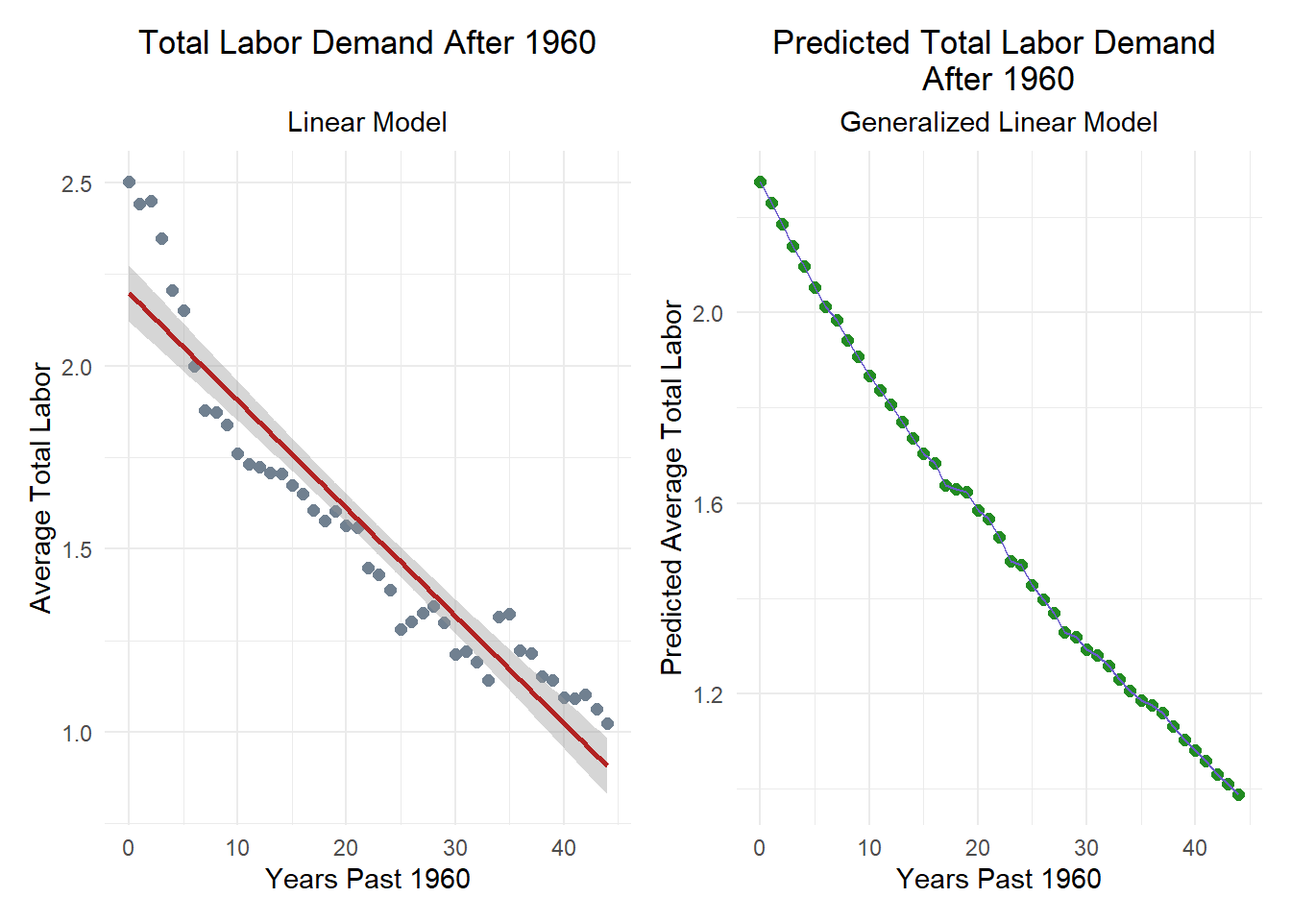
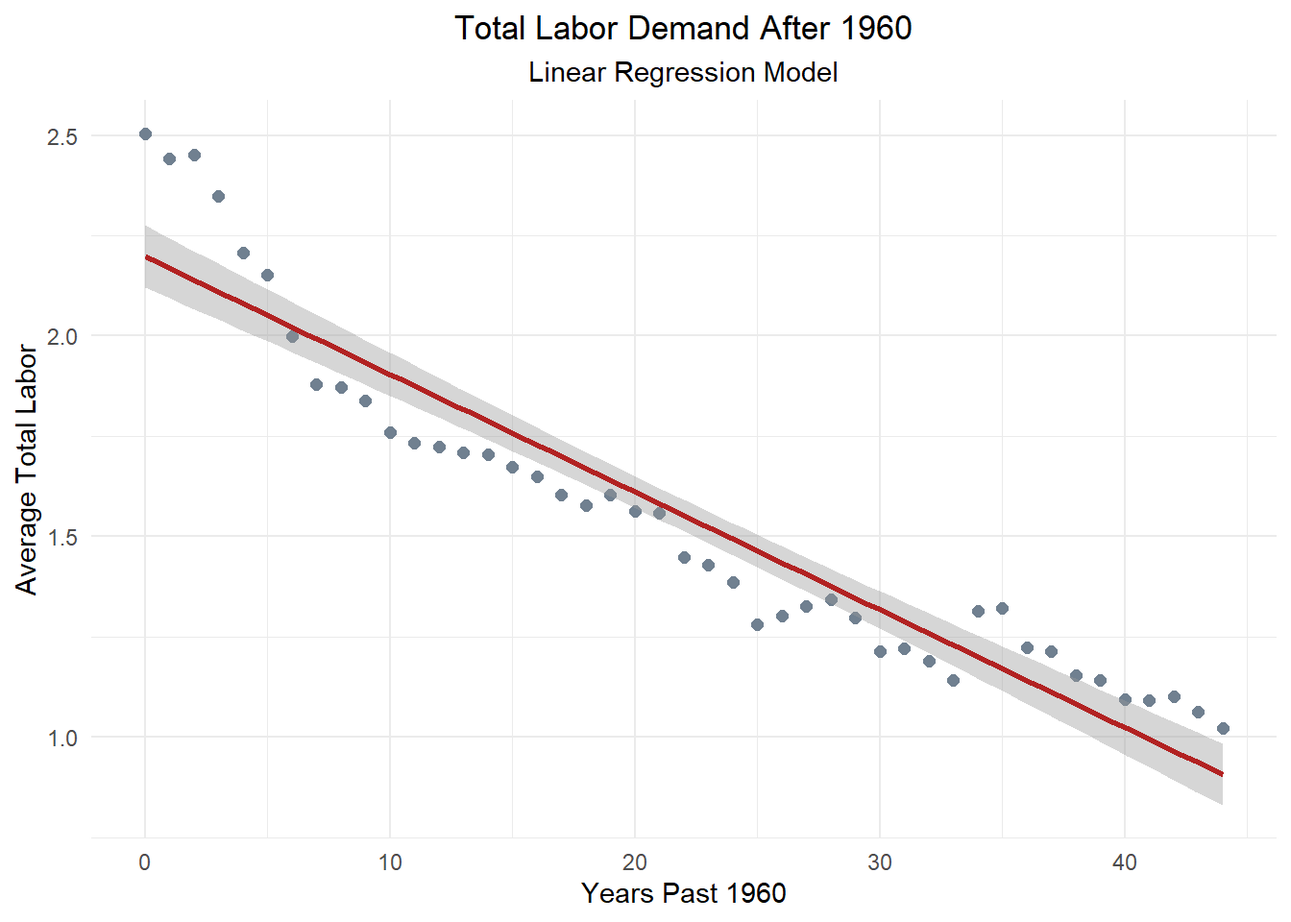
Edit analysis and update figure labels

diff --git a/docs/blog_posts/stats-project/pesticides-fertilizers-labor.html b/docs/blog_posts/stats-project/pesticides-fertilizers-labor.html
@@ -10,7 +10,7 @@
 <meta name="dcterms.date" content="2024-12-14">
 <meta name="description" content="How the rapid rise in synthetic inputs during the 20th century affected labor needs on farms.">
 
-<title>Examing the Impact of Fertilizer &amp; Pesticide Use on Agricultural Labor Needs – Stephen Carroll</title>
+<title>Examing the Impact of Fertilizer &amp; Pesticide Use on Agricultural Labor Demands – Stephen Carroll</title>
 <style>
 code{white-space: pre-wrap;}
 span.smallcaps{font-variant: small-caps;}
@@ -190,7 +190,7 @@ window.Quarto = {
 <header id="title-block-header" class="quarto-title-block default page-columns page-full">
   <div class="quarto-title-banner page-columns page-full">
     <div class="quarto-title column-page-left">
-      <h1 class="title">Examing the Impact of Fertilizer &amp; Pesticide Use on Agricultural Labor Needs</h1>
+      <h1 class="title">Examing the Impact of Fertilizer &amp; Pesticide Use on Agricultural Labor Demands</h1>
                   <div>
         <div class="description">
           How the rapid rise in synthetic inputs during the 20th century affected labor needs on farms.
@@ -248,7 +248,7 @@ window.Quarto = {
   <li><a href="#analysis-plan" id="toc-analysis-plan" class="nav-link" data-scroll-target="#analysis-plan">Analysis Plan</a>
   <ul class="collapse">
   <li><a href="#multiple-linear-regression" id="toc-multiple-linear-regression" class="nav-link" data-scroll-target="#multiple-linear-regression">Multiple Linear Regression</a></li>
-  <li><a href="#logistic-regression" id="toc-logistic-regression" class="nav-link" data-scroll-target="#logistic-regression">Logistic Regression</a></li>
+  <li><a href="#gamma-regression" id="toc-gamma-regression" class="nav-link" data-scroll-target="#gamma-regression">Gamma Regression</a></li>
   <li><a href="#hypothesis-statement" id="toc-hypothesis-statement" class="nav-link" data-scroll-target="#hypothesis-statement">Hypothesis Statement</a></li>
   </ul></li>
   <li><a href="#data" id="toc-data" class="nav-link" data-scroll-target="#data">Data</a></li>
@@ -264,9 +264,9 @@ window.Quarto = {
   <ul class="collapse">
   <li><a href="#linear-model-evaluation" id="toc-linear-model-evaluation" class="nav-link" data-scroll-target="#linear-model-evaluation">Linear Model Evaluation</a></li>
   </ul></li>
-  <li><a href="#logistic-regression-analysis" id="toc-logistic-regression-analysis" class="nav-link" data-scroll-target="#logistic-regression-analysis">Logistic Regression Analysis</a>
+  <li><a href="#gamma-regression-analysis" id="toc-gamma-regression-analysis" class="nav-link" data-scroll-target="#gamma-regression-analysis">Gamma Regression Analysis</a>
   <ul class="collapse">
-  <li><a href="#logistic-model-evaluation" id="toc-logistic-model-evaluation" class="nav-link" data-scroll-target="#logistic-model-evaluation">Logistic Model Evaluation</a></li>
+  <li><a href="#gamma-model-evaluation" id="toc-gamma-model-evaluation" class="nav-link" data-scroll-target="#gamma-model-evaluation">Gamma Model Evaluation</a></li>
   <li><a href="#visualizing-both-linear-and-non-linear-models" id="toc-visualizing-both-linear-and-non-linear-models" class="nav-link" data-scroll-target="#visualizing-both-linear-and-non-linear-models">Visualizing Both Linear and Non-Linear Models</a></li>
   </ul></li>
   <li><a href="#results" id="toc-results" class="nav-link" data-scroll-target="#results">Results</a>
@@ -323,9 +323,9 @@ window.Quarto = {
 <p>The response variable is ‘total_labor’, and represents all forms of labor demand in commercial agriculture operations in the country. The <span class="math inline">\(\beta\)</span>s represent the regression coefficients, each representing a predictor variable, all of which are continuous. This assumes that there is a linear relationship between ‘total_labor’ and each independent predictor variable.</p>
 <p>This model will enable me to assess the extent to which changes in these factors predict the demand in labor. By examining these patterns over time we can attempt to draw conclusions about how the increasing reliance on synthetic chemicals has influenced labor dynamics in agriculture, potentially providing valuable insight into the economic impacts of different farming practices.</p>
 </section>
-<section id="logistic-regression" class="level3">
-<h3 class="anchored" data-anchor-id="logistic-regression">Logistic Regression</h3>
-<p>Though I don’t believe my variables to be categorical, if linear regression does not yield convincing results, I will turn to logistic analysis. Having a secondary method of analysis may prove valuable if my predictor variables are insufficient to draw conclusions. Trying both models allows me to compare their performance and ensure I’m using the most appropriate approach for my analysis. Herre is an example of a model that I might use:</p>
+<section id="gamma-regression" class="level3">
+<h3 class="anchored" data-anchor-id="gamma-regression">Gamma Regression</h3>
+<p>Though I don’t believe my variables to be categorical, if linear regression does not yield convincing results, I will turn to gamma analysis. Having a secondary method of analysis may prove valuable if my predictor variables are insufficient to draw conclusions. Trying both models allows me to compare their performance and ensure I’m using the most appropriate approach for my analysis. Herre is an example of a model that I might use:</p>
 <p><span class="math display">\[\log(\mathbb{E}[\text{labor}]) = \beta_0 + \beta_1 \cdot \text{pesticide} + \beta_2 \cdot \text{year} + \beta_3 \cdot (\text{pesticide} \times \text{year})\]</span></p>
 </section>
 <section id="hypothesis-statement" class="level3">
@@ -976,9 +976,9 @@ window.Quarto = {
 </section>
 </section>
 </section>
-<section id="logistic-regression-analysis" class="level2">
-<h2 class="anchored" data-anchor-id="logistic-regression-analysis">Logistic Regression Analysis</h2>
-<p>We know that both labor parameters are collinear as well as pesticide &amp; fertilizer. Because it’s a redundant predictor, Let’s drop fertilizer and just focus on pesticide use for this next model. We’ve also learned that the data isn’t normal. To try and normalize the distribution of residuals, we need to transform our data. Though we know the increase in use of pesticides and fertilizers isn’t going to be exponential, the initial plot for their growth trend did somewhat reflect an exponential curve. Let’s try using a Generalized Linear Model (GLM), with a log link function to get a better model fit.</p>
+<section id="gamma-regression-analysis" class="level2">
+<h2 class="anchored" data-anchor-id="gamma-regression-analysis">Gamma Regression Analysis</h2>
+<p>We know that both labor parameters are collinear as well as pesticide &amp; fertilizer. Because it’s a redundant predictor, Let’s drop fertilizer and just focus on pesticide use for this next model. We’ve also learned that the data isn’t normal. To try and normalize the distribution of residuals, we need to transform our data. Though we know the increase in use of pesticides and fertilizers isn’t going to be exponential, the initial plot for their growth trend did somewhat reflect an exponential curve. Let’s try using a Generalized Linear Model (GLM), with a log link function to get a better model fit with a Gamma Regression.</p>
 <div style="max-width: 600px; margin: 0 auto; margin-right: 20px; font-size: 14px;">
 <p><span class="math inline">\(\log(\mathbb{E}[\text{avg\_total\_labor}]) = \beta_0 + \beta_1 \cdot \text{avg\_pesticide} + \beta_2 \cdot \text{years\_elapsed} + \beta_3 \cdot (\text{avg\_pesticide} \times \text{years\_elapsed})\)</span></p>
 </div>
@@ -1011,14 +1011,14 @@ window.Quarto = {
 <span id="cb24-7"><a href="#cb24-7" aria-hidden="true" tabindex="-1"></a><span class="co"># Populate the data frame with the variable names and their corresponding values</span></span>
 <span id="cb24-8"><a href="#cb24-8" aria-hidden="true" tabindex="-1"></a><span class="fu">colnames</span>(labor_glm_df) <span class="ot">&lt;-</span> <span class="fu">c</span>(<span class="st">"Estimate"</span>, <span class="st">"Std. Error"</span>, <span class="st">"t value"</span>, <span class="st">"p-value"</span>)</span>
 <span id="cb24-9"><a href="#cb24-9" aria-hidden="true" tabindex="-1"></a>labor_glm_df<span class="sc">$</span>Variable <span class="ot">&lt;-</span> <span class="fu">rownames</span>(labor_glm_df)</span>
-<span id="cb24-10"><a href="#cb24-10" aria-hidden="true" tabindex="-1"></a>labor_glm_df<span class="sc">$</span>Model <span class="ot">&lt;-</span> <span class="st">"GLM Labor"</span></span>
+<span id="cb24-10"><a href="#cb24-10" aria-hidden="true" tabindex="-1"></a>labor_glm_df<span class="sc">$</span>Model <span class="ot">&lt;-</span> <span class="st">"Gamma Labor"</span></span>
 <span id="cb24-11"><a href="#cb24-11" aria-hidden="true" tabindex="-1"></a></span>
 <span id="cb24-12"><a href="#cb24-12" aria-hidden="true" tabindex="-1"></a><span class="co"># Remove row names (index) by resetting the row names to NULL</span></span>
 <span id="cb24-13"><a href="#cb24-13" aria-hidden="true" tabindex="-1"></a><span class="fu">rownames</span>(labor_glm_df) <span class="ot">&lt;-</span> <span class="cn">NULL</span></span>
 <span id="cb24-14"><a href="#cb24-14" aria-hidden="true" tabindex="-1"></a></span>
 <span id="cb24-15"><a href="#cb24-15" aria-hidden="true" tabindex="-1"></a>labor_glm_table <span class="ot">&lt;-</span> <span class="fu">kable</span>(labor_glm_df[, <span class="fu">c</span>(<span class="st">"Variable"</span>, <span class="st">"Estimate"</span>, <span class="st">"Std. Error"</span>, <span class="st">"t value"</span>, <span class="st">"p-value"</span>)],</span>
 <span id="cb24-16"><a href="#cb24-16" aria-hidden="true" tabindex="-1"></a>                            <span class="at">digits =</span> <span class="dv">3</span>,</span>
-<span id="cb24-17"><a href="#cb24-17" aria-hidden="true" tabindex="-1"></a>                            <span class="at">caption =</span> <span class="st">"Regression Coefficients for Labor Generalized Linear Model"</span>) <span class="sc">%&gt;%</span> </span>
+<span id="cb24-17"><a href="#cb24-17" aria-hidden="true" tabindex="-1"></a>                            <span class="at">caption =</span> <span class="st">"Regression Coefficients for Labor Gamma Regression Model"</span>) <span class="sc">%&gt;%</span> </span>
 <span id="cb24-18"><a href="#cb24-18" aria-hidden="true" tabindex="-1"></a> <span class="fu">kable_styling</span>(<span class="at">bootstrap_options =</span> <span class="st">"striped"</span>, <span class="at">full_width =</span> <span class="cn">FALSE</span>, <span class="at">position =</span> <span class="st">"center"</span>) <span class="sc">%&gt;%</span></span>
 <span id="cb24-19"><a href="#cb24-19" aria-hidden="true" tabindex="-1"></a>  <span class="fu">column_spec</span>(<span class="dv">1</span><span class="sc">:</span><span class="dv">5</span>, <span class="at">background =</span> <span class="st">"white"</span>)</span>
 <span id="cb24-20"><a href="#cb24-20" aria-hidden="true" tabindex="-1"></a></span>
@@ -1026,7 +1026,7 @@ window.Quarto = {
 </details>
 <div class="cell-output-display">
 <table class="table table-striped caption-top table-sm small" data-quarto-postprocess="true">
-<caption>Regression Coefficients for Labor Generalized Linear Model</caption>
+<caption>Regression Coefficients for Labor Gamma Regression Model</caption>
 <thead>
 <tr class="header">
 <th style="text-align: left;" data-quarto-table-cell-role="th">Variable</th>
@@ -1065,21 +1065,21 @@ window.Quarto = {
 </div>
 </div>
 <p>Progress! It looks like our p-value for ‘avg_pesticide’ is roughly half of what our last model produced. This is a meaningless improvement however, as the new value is still statistically insignificant at <span class="math inline">\(\alpha\)</span> &lt; 0.05 with a value of 0.34. Let’s check to see if this new method produced data that is normal and homoscedastic, using the same methods from before.</p>
-<section id="logistic-model-evaluation" class="level3">
-<h3 class="anchored" data-anchor-id="logistic-model-evaluation">Logistic Model Evaluation</h3>
+<section id="gamma-model-evaluation" class="level3">
+<h3 class="anchored" data-anchor-id="gamma-model-evaluation">Gamma Model Evaluation</h3>
 <div class="cell">
 <details class="code-fold">
 <summary>Code</summary>
-<div class="sourceCode cell-code" id="cb25"><pre class="sourceCode r code-with-copy"><code class="sourceCode r"><span id="cb25-1"><a href="#cb25-1" aria-hidden="true" tabindex="-1"></a><span class="co"># Generate predictions and residuals for avg_total_labor using the glm model</span></span>
+<div class="sourceCode cell-code" id="cb25"><pre class="sourceCode r code-with-copy"><code class="sourceCode r"><span id="cb25-1"><a href="#cb25-1" aria-hidden="true" tabindex="-1"></a><span class="co"># Generate predictions and residuals for avg_total_labor using the gamma model</span></span>
 <span id="cb25-2"><a href="#cb25-2" aria-hidden="true" tabindex="-1"></a>combined_glm <span class="ot">&lt;-</span> combined_tidy <span class="sc">%&gt;%</span></span>
 <span id="cb25-3"><a href="#cb25-3" aria-hidden="true" tabindex="-1"></a>  <span class="fu">mutate</span>(<span class="at">predicted_labor =</span> <span class="fu">predict</span>(labor_glm, <span class="at">type =</span> <span class="st">"response"</span>)) <span class="sc">%&gt;%</span> </span>
 <span id="cb25-4"><a href="#cb25-4" aria-hidden="true" tabindex="-1"></a>  <span class="fu">mutate</span>(<span class="at">residuals_glm =</span> <span class="fu">residuals.glm</span>(labor_glm))</span>
 <span id="cb25-5"><a href="#cb25-5" aria-hidden="true" tabindex="-1"></a></span>
 <span id="cb25-6"><a href="#cb25-6" aria-hidden="true" tabindex="-1"></a></span>
-<span id="cb25-7"><a href="#cb25-7" aria-hidden="true" tabindex="-1"></a><span class="co"># Plot a histogram of glm residuals to check normality</span></span>
+<span id="cb25-7"><a href="#cb25-7" aria-hidden="true" tabindex="-1"></a><span class="co"># Plot a histogram of gamma residuals to check normality</span></span>
 <span id="cb25-8"><a href="#cb25-8" aria-hidden="true" tabindex="-1"></a>glm_hist_plot <span class="ot">&lt;-</span> <span class="fu">ggplot</span>(combined_glm, <span class="fu">aes</span>(<span class="at">x =</span> residuals_glm)) <span class="sc">+</span></span>
 <span id="cb25-9"><a href="#cb25-9" aria-hidden="true" tabindex="-1"></a>  <span class="fu">geom_histogram</span>(<span class="at">bins =</span> <span class="dv">30</span>, <span class="at">fill =</span> <span class="st">"lavender"</span>, <span class="at">color =</span> <span class="st">"black"</span>, <span class="at">alpha =</span> <span class="fl">0.5</span>) <span class="sc">+</span></span>
-<span id="cb25-10"><a href="#cb25-10" aria-hidden="true" tabindex="-1"></a>  <span class="fu">labs</span>(<span class="at">title =</span> <span class="st">"Histogram of GLM Residuals"</span>, <span class="at">x =</span> <span class="st">"Residuals"</span>, <span class="at">y =</span> <span class="st">"Frequency"</span>) <span class="sc">+</span></span>
+<span id="cb25-10"><a href="#cb25-10" aria-hidden="true" tabindex="-1"></a>  <span class="fu">labs</span>(<span class="at">title =</span> <span class="st">"Histogram of Gamma Regression Residuals"</span>, <span class="at">x =</span> <span class="st">"Residuals"</span>, <span class="at">y =</span> <span class="st">"Frequency"</span>) <span class="sc">+</span></span>
 <span id="cb25-11"><a href="#cb25-11" aria-hidden="true" tabindex="-1"></a>  <span class="fu">theme_minimal</span>()  <span class="sc">+</span></span>
 <span id="cb25-12"><a href="#cb25-12" aria-hidden="true" tabindex="-1"></a>  <span class="fu">theme</span>(<span class="at">plot.title =</span> <span class="fu">element_text</span>(<span class="at">hjust =</span> <span class="fl">0.5</span>))  <span class="co"># Center the title</span></span>
 <span id="cb25-13"><a href="#cb25-13" aria-hidden="true" tabindex="-1"></a></span>
@@ -1088,7 +1088,7 @@ window.Quarto = {
 <span id="cb25-16"><a href="#cb25-16" aria-hidden="true" tabindex="-1"></a>glm_qq_plot <span class="ot">&lt;-</span> <span class="fu">ggplot</span>(combined_glm, <span class="fu">aes</span>(<span class="at">sample =</span> predicted_labor)) <span class="sc">+</span></span>
 <span id="cb25-17"><a href="#cb25-17" aria-hidden="true" tabindex="-1"></a>  <span class="fu">stat_qq</span>() <span class="sc">+</span></span>
 <span id="cb25-18"><a href="#cb25-18" aria-hidden="true" tabindex="-1"></a>  <span class="fu">stat_qq_line</span>(<span class="at">color =</span> <span class="st">"firebrick"</span>, <span class="at">alpha =</span> <span class="fl">0.5</span>) <span class="sc">+</span></span>
-<span id="cb25-19"><a href="#cb25-19" aria-hidden="true" tabindex="-1"></a>  <span class="fu">labs</span>(<span class="at">title =</span> <span class="st">"Q-Q Plot of GLM Residuals"</span>) <span class="sc">+</span></span>
+<span id="cb25-19"><a href="#cb25-19" aria-hidden="true" tabindex="-1"></a>  <span class="fu">labs</span>(<span class="at">title =</span> <span class="st">"Q-Q Plot of Gamma Regression Residuals"</span>) <span class="sc">+</span></span>
 <span id="cb25-20"><a href="#cb25-20" aria-hidden="true" tabindex="-1"></a>  <span class="fu">theme_minimal</span>()  <span class="sc">+</span></span>
 <span id="cb25-21"><a href="#cb25-21" aria-hidden="true" tabindex="-1"></a>  <span class="fu">theme</span>(<span class="at">plot.title =</span> <span class="fu">element_text</span>(<span class="at">hjust =</span> <span class="fl">0.5</span>))  <span class="co"># Center the title</span></span>
 <span id="cb25-22"><a href="#cb25-22" aria-hidden="true" tabindex="-1"></a></span>
@@ -1097,7 +1097,7 @@ window.Quarto = {
 <span id="cb25-25"><a href="#cb25-25" aria-hidden="true" tabindex="-1"></a>glm_fitted_resdid_plot <span class="ot">&lt;-</span> <span class="fu">ggplot</span>(combined_glm, <span class="fu">aes</span>(<span class="at">x =</span> predicted_labor, <span class="at">y =</span> residuals_glm)) <span class="sc">+</span></span>
 <span id="cb25-26"><a href="#cb25-26" aria-hidden="true" tabindex="-1"></a>  <span class="fu">geom_point</span>() <span class="sc">+</span></span>
 <span id="cb25-27"><a href="#cb25-27" aria-hidden="true" tabindex="-1"></a>  <span class="fu">geom_hline</span>(<span class="at">yintercept =</span> <span class="dv">0</span>, <span class="at">color =</span> <span class="st">"tomato"</span>, <span class="at">linetype =</span> <span class="st">"dashed"</span>) <span class="sc">+</span></span>
-<span id="cb25-28"><a href="#cb25-28" aria-hidden="true" tabindex="-1"></a>  <span class="fu">labs</span>(<span class="at">x =</span> <span class="st">"Fitted Values"</span>, <span class="at">y =</span> <span class="st">"Residuals"</span>, <span class="at">title =</span> <span class="st">"GLM Residuals vs Fitted Values"</span>) <span class="sc">+</span></span>
+<span id="cb25-28"><a href="#cb25-28" aria-hidden="true" tabindex="-1"></a>  <span class="fu">labs</span>(<span class="at">x =</span> <span class="st">"Fitted Values"</span>, <span class="at">y =</span> <span class="st">"Residuals"</span>, <span class="at">title =</span> <span class="st">"Gamma Regression Residuals vs Fitted Values"</span>) <span class="sc">+</span></span>
 <span id="cb25-29"><a href="#cb25-29" aria-hidden="true" tabindex="-1"></a>  <span class="fu">theme_minimal</span>() <span class="sc">+</span></span>
 <span id="cb25-30"><a href="#cb25-30" aria-hidden="true" tabindex="-1"></a>  <span class="fu">theme</span>(<span class="at">plot.title =</span> <span class="fu">element_text</span>(<span class="at">hjust =</span> <span class="fl">0.5</span>))  <span class="co"># Center the title</span></span>
 <span id="cb25-31"><a href="#cb25-31" aria-hidden="true" tabindex="-1"></a></span>
@@ -1134,11 +1134,11 @@ window.Quarto = {
 </div>
 </div>
 </div>
-<p>After further investigation, it’s clear that this model didn’t produce normally distributed data either. Our histogram of GLM residuals is closer to a normal distribution, but it’s asymmetric with a right tail. Our Q-Q plot of GLM residuals is also a better fit, with at least half of the points landing on the line of normality. Still, the extreme high and low values deviate from the line. When we plotted the fitted GLM data versus the residual GLM data, the result is a funnel similar to the first graph. Though improved, this model did not produce normal or homoscedastic data and is therefore not worthwhile as a means to predict total labor cost from pesticide use and year alone.</p>
+<p>After further investigation, it’s clear that this model didn’t produce normally distributed data either. Our histogram of GLM residuals is closer to a normal distribution, but it’s asymmetric with a right tail. Our Q-Q plot of Gamma regression residuals is also a better fit, with at least half of the points landing on the line of normality. Still, the extreme high and low values deviate from the line. When we plotted the fitted Gamma data versus the residual Gamma data, the result is a funnel similar to the first graph. Though improved, this model did not produce normal or homoscedastic data and is therefore not worthwhile as a means to predict total labor cost from pesticide use and year alone.</p>
 </section>
 <section id="visualizing-both-linear-and-non-linear-models" class="level3">
 <h3 class="anchored" data-anchor-id="visualizing-both-linear-and-non-linear-models">Visualizing Both Linear and Non-Linear Models</h3>
-<p>Let’s compare each model by plotting our data and regression lines. Can we see a demontrable difference in outcome?</p>
+<p>Let’s compare each model by plotting our data and regression lines. Can we see a demonstrable difference in outcome?</p>
 <div class="cell">
 <details class="code-fold">
 <summary>Code</summary>
@@ -1146,28 +1146,39 @@ window.Quarto = {
 <span id="cb28-2"><a href="#cb28-2" aria-hidden="true" tabindex="-1"></a>total_labor_plot <span class="ot">&lt;-</span> <span class="fu">ggplot</span>(combined_glm, <span class="fu">aes</span>(<span class="at">x =</span> years_elapsed, <span class="at">y =</span> avg_total_labor)) <span class="sc">+</span></span>
 <span id="cb28-3"><a href="#cb28-3" aria-hidden="true" tabindex="-1"></a>  <span class="fu">geom_point</span>(<span class="at">color =</span> <span class="st">"slategray"</span>, <span class="at">size =</span> <span class="dv">2</span>) <span class="sc">+</span>  <span class="co"># Scatter plot for avg_total_labor</span></span>
 <span id="cb28-4"><a href="#cb28-4" aria-hidden="true" tabindex="-1"></a>  <span class="fu">geom_smooth</span>(<span class="at">method =</span> <span class="st">"lm"</span>, <span class="at">formula =</span> y <span class="sc">~</span> x, <span class="at">color =</span> <span class="st">"firebrick"</span>, <span class="at">linetype =</span> <span class="st">"solid"</span>) <span class="sc">+</span>  <span class="co"># Regression line for total_labor_model</span></span>
-<span id="cb28-5"><a href="#cb28-5" aria-hidden="true" tabindex="-1"></a>  <span class="fu">labs</span>(<span class="at">subtitle =</span> <span class="st">"Linear Model"</span>, <span class="at">title =</span> <span class="st">"Total Labor Demand After 1960"</span>, <span class="at">x =</span> <span class="st">"Years Past 1960"</span>, <span class="at">y =</span> <span class="st">"Average Total Labor"</span>) <span class="sc">+</span></span>
+<span id="cb28-5"><a href="#cb28-5" aria-hidden="true" tabindex="-1"></a>  <span class="fu">labs</span>(<span class="at">subtitle =</span> <span class="st">"Linear Regression Model"</span>, <span class="at">title =</span> <span class="st">"Total Labor Demand After 1960"</span>, <span class="at">x =</span> <span class="st">"Years Past 1960"</span>, <span class="at">y =</span> <span class="st">"Average Total Labor"</span>) <span class="sc">+</span></span>
 <span id="cb28-6"><a href="#cb28-6" aria-hidden="true" tabindex="-1"></a>  <span class="fu">theme_minimal</span>()  <span class="sc">+</span></span>
 <span id="cb28-7"><a href="#cb28-7" aria-hidden="true" tabindex="-1"></a>  <span class="fu">theme</span>(<span class="at">plot.title =</span> <span class="fu">element_text</span>(<span class="at">hjust =</span> <span class="fl">0.5</span>), <span class="co"># Center the title</span></span>
 <span id="cb28-8"><a href="#cb28-8" aria-hidden="true" tabindex="-1"></a>        <span class="at">plot.subtitle =</span> <span class="fu">element_text</span>(<span class="at">hjust =</span> <span class="fl">0.5</span>))  <span class="co"># Center the subtitle</span></span>
 <span id="cb28-9"><a href="#cb28-9" aria-hidden="true" tabindex="-1"></a></span>
 <span id="cb28-10"><a href="#cb28-10" aria-hidden="true" tabindex="-1"></a></span>
-<span id="cb28-11"><a href="#cb28-11" aria-hidden="true" tabindex="-1"></a><span class="co"># Create the plot for Total Labor GLM</span></span>
+<span id="cb28-11"><a href="#cb28-11" aria-hidden="true" tabindex="-1"></a><span class="co"># Create the plot for Total Labor Gamma</span></span>
 <span id="cb28-12"><a href="#cb28-12" aria-hidden="true" tabindex="-1"></a>total_labor_glm_plot <span class="ot">&lt;-</span> <span class="fu">ggplot</span>(combined_glm, <span class="fu">aes</span>(<span class="at">x =</span> years_elapsed, <span class="at">y =</span> predicted_labor)) <span class="sc">+</span></span>
 <span id="cb28-13"><a href="#cb28-13" aria-hidden="true" tabindex="-1"></a>  <span class="fu">geom_point</span>(<span class="at">color =</span> <span class="st">"forestgreen"</span>, <span class="at">size =</span> <span class="dv">2</span>) <span class="sc">+</span>  <span class="co"># Scatter plot for avg_total_labor</span></span>
 <span id="cb28-14"><a href="#cb28-14" aria-hidden="true" tabindex="-1"></a>  <span class="fu">geom_line</span>(<span class="fu">aes</span>(<span class="at">y =</span> predicted_labor),, <span class="at">color =</span> <span class="st">"slateblue"</span>, <span class="at">linetype =</span> <span class="st">"solid"</span>) <span class="sc">+</span>  <span class="co"># Regression line for total_labor_model</span></span>
-<span id="cb28-15"><a href="#cb28-15" aria-hidden="true" tabindex="-1"></a>  <span class="fu">labs</span>(<span class="at">subtitle =</span> <span class="st">"Generalized Linear Model"</span>, <span class="at">title =</span> <span class="st">"Predicted Total Labor Demand </span><span class="sc">\n</span><span class="st">After 1960"</span>, <span class="at">x =</span> <span class="st">"Years Past 1960"</span>, <span class="at">y =</span> <span class="st">"Predicted Average Total Labor"</span>) <span class="sc">+</span></span>
+<span id="cb28-15"><a href="#cb28-15" aria-hidden="true" tabindex="-1"></a>  <span class="fu">labs</span>(<span class="at">subtitle =</span> <span class="st">"Gamma Regression Model"</span>, <span class="at">title =</span> <span class="st">"Predicted Total Labor Demand </span><span class="sc">\n</span><span class="st">After 1960"</span>, <span class="at">x =</span> <span class="st">"Years Past 1960"</span>, <span class="at">y =</span> <span class="st">"Predicted Average Total Labor"</span>) <span class="sc">+</span></span>
 <span id="cb28-16"><a href="#cb28-16" aria-hidden="true" tabindex="-1"></a>  <span class="fu">theme_minimal</span>()  <span class="sc">+</span></span>
 <span id="cb28-17"><a href="#cb28-17" aria-hidden="true" tabindex="-1"></a>  <span class="fu">theme</span>(<span class="at">plot.title =</span> <span class="fu">element_text</span>(<span class="at">hjust =</span> <span class="fl">0.5</span>), <span class="co"># Center the subtitle</span></span>
 <span id="cb28-18"><a href="#cb28-18" aria-hidden="true" tabindex="-1"></a>        <span class="at">plot.subtitle =</span> <span class="fu">element_text</span>(<span class="at">hjust =</span> <span class="fl">0.5</span>))  <span class="co"># Center the title</span></span>
 <span id="cb28-19"><a href="#cb28-19" aria-hidden="true" tabindex="-1"></a></span>
 <span id="cb28-20"><a href="#cb28-20" aria-hidden="true" tabindex="-1"></a><span class="co"># Display both plots side by side</span></span>
-<span id="cb28-21"><a href="#cb28-21" aria-hidden="true" tabindex="-1"></a>total_labor_plot <span class="sc">+</span> total_labor_glm_plot <span class="sc">+</span> <span class="fu">plot_layout</span>(<span class="at">ncol =</span> <span class="dv">2</span>)</span></code><button title="Copy to Clipboard" class="code-copy-button"><i class="bi"></i></button></pre></div>
+<span id="cb28-21"><a href="#cb28-21" aria-hidden="true" tabindex="-1"></a><span class="fu">print</span>(total_labor_plot)  </span></code><button title="Copy to Clipboard" class="code-copy-button"><i class="bi"></i></button></pre></div>
 </details>
 <div class="cell-output-display">
 <div>
 <figure class="figure">
 <p><img src="pesticides-fertilizers-labor_files/figure-html/unnamed-chunk-20-1.png" class="img-fluid figure-img" width="672"></p>
+</figure>
+</div>
+</div>
+<details class="code-fold">
+<summary>Code</summary>
+<div class="sourceCode cell-code" id="cb29"><pre class="sourceCode r code-with-copy"><code class="sourceCode r"><span id="cb29-1"><a href="#cb29-1" aria-hidden="true" tabindex="-1"></a><span class="fu">print</span>(total_labor_glm_plot) </span></code><button title="Copy to Clipboard" class="code-copy-button"><i class="bi"></i></button></pre></div>
+</details>
+<div class="cell-output-display">
+<div>
+<figure class="figure">
+<p><img src="pesticides-fertilizers-labor_files/figure-html/unnamed-chunk-20-2.png" class="img-fluid figure-img" width="672"></p>
 </figure>
 </div>
 </div>
@@ -1179,13 +1190,13 @@ window.Quarto = {
 <p>Through our correlation analysis, we found that average national agricultural pesticide and fertilizer use has exploded since 1960. These two variables are closely correlated, with <span class="math inline">\(r\)</span> values of 0.82. This suggests that most growers who use fertilizers will also rely on pesticides in their approach to farming.</p>
 <p>Our linear regression analysis also found that labor demand has dropped significantly in the same time, less than half what it once was. The resulting negative correlation between labor demand and synthetic inputs is not so clear cut, however. When looking at any other predictor variable, years elapsed from 1960 had extremely strong correlation, positive or negative.</p>
 <p>Further investigation of the efficacy of our model suggest that it is a poor fit to draw any conclusions from. When plotted, the data did not have a normal distribution, the variance was not consistent, diverging at extreme values, and the coefficient p-values were not of significance.</p>
-<p>A revised logistic regression had slightly more convincing results, but still nothing concrete. We were able to get our coefficient p-value to half of what it was initially, and the data was more normally distributed, but it remained heteroscedastic and the p-value was still insgnificant despite being lower.</p>
+<p>A revised gamma regression had slightly more convincing results, but still nothing concrete. We were able to get our coefficient p-value to half of what it was initially, and the data was more normally distributed, but it remained heteroscedastic and the p-value was still insignificant despite being lower.</p>
 <p>Looking back at our Null and Alternative hypotheses, it’s impossible to be conclusive. Based on our findings, we fail to reject our null hypothesis that pesticide and fertilizer use do not have a significant effect on labor demand. Both of our predictive models yielded coefficient p-values notably higher than the convention for significance of <span class="math inline">\(alpha\)</span> &lt; 0.05.</p>
 <p>Our results suggest that there are other factors not included in our models that have a significant impact on agricultural labor demand. This is known as Omitted variable bias. Omitted variable bias occurs when a relevant predictive variable is excluded from a model, resulting in biased estimates for the included variables’ coefficients. This happens because the excluded variable is correlated with both the dependent variable and one or more of the independent variables, leading to inaccurate projections.</p>
 <p>Despite our findings that neither model is a perfect fit, we can still learn something from them. Visualized, we can see that our GLM on the right does provide a better fit for our scenario. This means that labor demand is not a fixed linear variable, it decays over time. Though not dramatic, our predictive line does curve slightly. This suggests that labor demand is influenced by factors that affect it’s trend of decay as well as the demand itself.</p>
 <section id="additional-considerations-possible-next-steps" class="level3">
 <h3 class="anchored" data-anchor-id="additional-considerations-possible-next-steps">Additional Considerations &amp; Possible Next Steps</h3>
-<p>To improve on this analysis in the future, omitted variables need to be identified and included in the logistic regression model. There are likely more than one significant predictors that are closely correlated to our ‘years_elapsed’ variable.</p>
+<p>To improve on this analysis in the future, omitted variables need to be identified and included in the gamma regression model. There are likely more than one significant predictors that are closely correlated to our ‘years_elapsed’ variable.</p>
 <figure style="float: right; margin-right: 15px; text-align: center;" class="figure">
 <img src="images/finger-weeder.gif" width="290px" style="display: block; margin-bottom: 5px;" class="figure-img">
 <figcaption style="font-size: 0.8em;">
@@ -1215,14 +1226,15 @@ window.Quarto = {
 <div id="quarto-appendix" class="default"><section class="quarto-appendix-contents" id="quarto-citation"><h2 class="anchored quarto-appendix-heading">Citation</h2><div><div class="quarto-appendix-secondary-label">BibTeX citation:</div><pre class="sourceCode code-with-copy quarto-appendix-bibtex"><code class="sourceCode bibtex">@online{carroll2024,
   author = {Carroll, Stephen},
   title = {Examing the {Impact} of {Fertilizer} \&amp; {Pesticide} {Use} on
-    {Agricultural} {Labor} {Needs}},
+    {Agricultural} {Labor} {Demands}},
   date = {2024-12-14},
   url = {https://stephenccodes.github.io/blog/fertilizer-pesticides-and-labor/},
   langid = {en}
 }
 </code><button title="Copy to Clipboard" class="code-copy-button"><i class="bi"></i></button></pre><div class="quarto-appendix-secondary-label">For attribution, please cite this work as:</div><div id="ref-carroll2024" class="csl-entry quarto-appendix-citeas" role="listitem">
 Carroll, Stephen. 2024. <span>“Examing the Impact of Fertilizer &amp;
-Pesticide Use on Agricultural Labor Needs.”</span> December 14, 2024. <a href="https://stephenccodes.github.io/blog/fertilizer-pesticides-and-labor/">https://stephenccodes.github.io/blog/fertilizer-pesticides-and-labor/</a>.
+Pesticide Use on Agricultural Labor Demands.”</span> December 14, 2024.
+<a href="https://stephenccodes.github.io/blog/fertilizer-pesticides-and-labor/">https://stephenccodes.github.io/blog/fertilizer-pesticides-and-labor/</a>.
 </div></div></section></div></main> <!-- /main -->
 <script id="quarto-html-after-body" type="application/javascript">
 window.document.addEventListener("DOMContentLoaded", function (event) {

diff --git a/docs/blog_posts.html b/docs/blog_posts.html
@@ -210,7 +210,7 @@ window.Quarto = {
 
 <div class="quarto-listing quarto-listing-container-grid" id="listing-listing">
 <div class="list grid quarto-listing-cols-3">
-<div class="g-col-1" data-index="0" data-categories="Statistics,Agriculture,MEDS,R" data-listing-date-sort="1734163200000" data-listing-file-modified-sort="1734227439894" data-listing-date-modified-sort="NaN" data-listing-reading-time-sort="32" data-listing-word-count-sort="6223">
+<div class="g-col-1" data-index="0" data-categories="Statistics,Agriculture,MEDS,R" data-listing-date-sort="1734163200000" data-listing-file-modified-sort="1736046330301" data-listing-date-modified-sort="NaN" data-listing-reading-time-sort="32" data-listing-word-count-sort="6229">
 <a href="./blog_posts/stats-project/pesticides-fertilizers-labor.html" class="quarto-grid-link">
 <div class="quarto-grid-item card h-100 card-left">
 <p class="card-img-top">
@@ -218,7 +218,7 @@ window.Quarto = {
 </p>
 <div class="card-body post-contents">
 <h5 class="no-anchor card-title listing-title">
-Examing the Impact of Fertilizer &amp; Pesticide Use on Agricultural Labor Needs
+Examing the Impact of Fertilizer &amp; Pesticide Use on Agricultural Labor Demands
 </h5>
 <div class="listing-categories">
 <div class="listing-category" onclick="window.quartoListingCategory('Statistics'); return false;">
